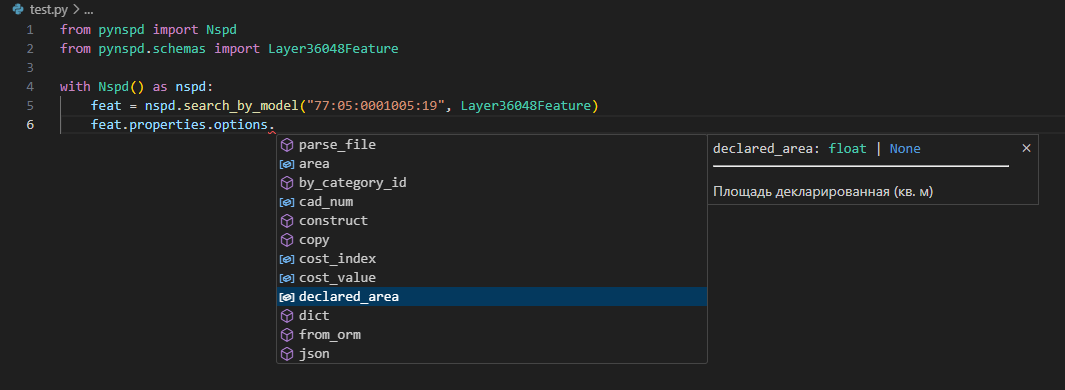
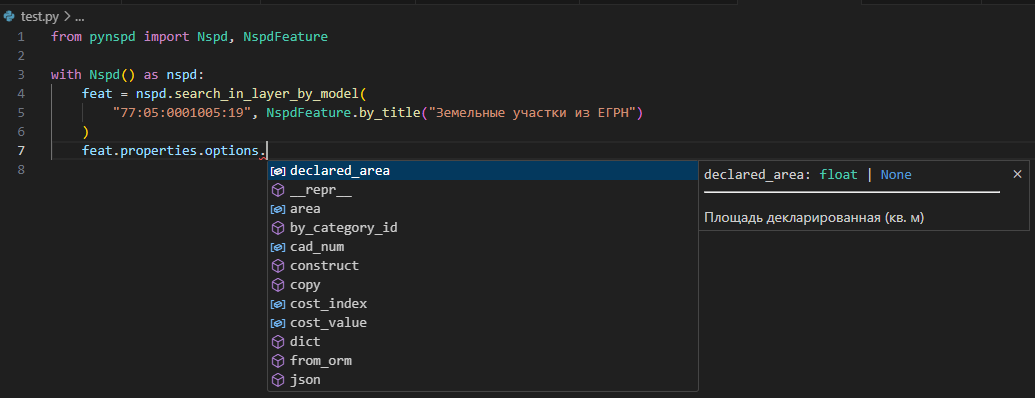
chore: update docs

Changed region(s): [[0.0618, 0.3385, 1.0, 0.9846], [0.0, 0.0, 0.6184, 0.3385], [0.0, 0.1231, 0.0309, 0.1846]]

diff --git a/src/pynspd/schemas/feature.py b/src/pynspd/schemas/feature.py
@@ -11,7 +11,7 @@ Feat = TypeVar("Feat", bound="BaseFeature")
 
 
 class NspdFeature(BaseFeature[Geometry, NspdProperties[OptionProperties]]):
-    """Базовая фича, приходящая из API, не привязанная к слою"""
+    """Базовый класс для валидации GeoJSON-объекта из НСПД"""
 
     @classmethod
     def _iter_layer_defs(cls) -> Generator[Type[BaseFeature], None, None]:
@@ -42,14 +42,14 @@ class NspdFeature(BaseFeature[Geometry, NspdProperties[OptionProperties]]):
         """Приведение объекта к одному из типов перечня определений слоев
 
         Args:
-            layer_def (Optional[Type[Feat]], optional):
-                Класс определение слоя. Если не указан, то попытается определить по свойствам. Defaults to None.
+            layer_def:
+                Класс определение слоя. Если не указан, то попытается определить по свойствам. По умолчанию None.
 
         Raises:
             UnknownLayer: Не удалось определить тип слоя по свойствам
 
         Returns:
-            Feat: объект, приведенный к типу его слоя
+            Объект, приведенный к типу его слоя
         """
         if layer_def is None:
             assert self.properties is not None

diff --git a/src/pynspd/schemas/properties.py b/src/pynspd/schemas/properties.py
@@ -12,9 +12,17 @@ T = TypeVar("T", bound="OptionProperties")
 
 
 class NspdProperties(CamelModel, Generic[OptProps]):
+    """Базовый класс для валидации поля `property` в GeoJSON-объекте из НСПД"""
+
     category: int
+    """ID категории слоя"""
+
     category_name: str
+    """Имя категории слоя"""
+
     options: OptProps
+    """Свойства объекта"""
+
     system_info: Optional["SystemInfoProperties"] = None
     cadastral_districts_code: Optional[int] = None
     descr: Optional[str] = None
@@ -38,6 +46,8 @@ class NspdProperties(CamelModel, Generic[OptProps]):
 
 
 class OptionProperties(BaseModel):
+    """Базовый класс для валидации поля `property.options` в GeoJSON-объекте из НСПД"""
+
     model_config = ConfigDict(
         extra="allow",
         use_attribute_docstrings=True,

diff --git a/docs/advanced/typing.md b/docs/advanced/typing.md
@@ -1,1 +1,139 @@
-*WIP*
+Если вы не знакомы с таким понятием в python, как *"type annotation"*, 
+то рекомендуем ознакомиться с основами [в этом уроке из документации FastAPI](https://fastapi.tiangolo.com/it/python-types/#add-types).
+
+В этой же статье мы покроем те области, которые связаны непосредственно с `pynspd`.
+
+!!! info "TL;DR"
+    Если вы пишете современное приложение с type hints на Python, 
+    пользуетесь инструментами вроде [mypy](https://github.com/python/mypy),
+    хотите быть уверенным в приходящих от НСПД данных - 
+    используете методы `nspd.<method_name>_by_model` или `NspdFeature.cast()`. 
+
+## Приведение к типу в методах
+
+Напомним, что разные методы поиска в `pynspd` имеют две вариации - базовая и с использованием модели слоя (с суффиксом `_by_model`)
+
+```python
+from pynspd import Nspd, NspdFeature
+
+nspd = Nspd()
+
+# Базовый вариант
+feat_plain = nspd.search_in_layer(
+    "77:09:0004002:1", 
+    36048
+)
+
+# По модели слоя
+feats_typed = nspd.search_in_layer_by_model(
+    "77:09:0004002:1", 
+    NspdFeature.by_title("Земельные участки из ЕГРН"),
+)
+```
+
+Анализатор IDE сообщает нам о разных типах:
+
+![Plain feat example](../assets/feat_plain.png)
+
+![Typed feat example](../assets/feat_typed.png)
+
+В рантайме типы так же отличаются:
+
+```python
+print(type(feat_plain))
+#> <class 'pynspd.schemas.feature.NspdFeature'>
+print(type(feats_typed))
+#> <class 'pynspd.schemas._autogen_features.Layer36048Feature'>
+```
+
+`NspdFeature` - это базовая модель слоя НСПД. Она ничего не знает о его свойствах - только обрабатывает сырые данные в Pydantic-модель.
+
+`Layer36048Feature` - модель слоя (в данном случае "Земельные участки"), в котором есть все метаданные.
+
+Ниже приведен краткое сравнение разницы в работе:
+
+|                                                       | `NspdFeature`    | `LayerXXXFeature` |
+| ----------------------------------------------------- | :--------------: | :---------------: |
+| Доступны все свойства объекта                         | :material-check: | :material-check:  |
+| Доступна работа с геометрией `.to_shape()`            | :material-check: | :material-check:  |
+| Валидирование данных, приходящих с НСПД               | :material-close: | :material-check:  |
+| Подсказки IDE по доступным полям                      | :material-close: | :material-check:  |
+| `.model_dump_human_readable()` дает результат         | :material-close: | :material-check:  |
+
+
+## Приведение к типу постфактум
+
+Иногда у нас нет возможности получить типизированный объект. 
+
+Например, метод `nspd.search_in_theme(...)` всегда возвращает `NspdFeature`.
+
+При может быть потребность в преимуществах модели слоя - например, для экспорта свойств в человекочитаемый словарь, `.model_dump_human_readable()`.
+
+Для этих целей мы можем воспользоваться методом `NspdFeature.cast(...)` и:
+
+- передать в качестве аргумента модель слоя (*статическое приведение*); 
+- ничего не передавать и определить модель автоматически (*динамическое приведение*). 
+
+```python
+raw_feat: NspdFeature = nspd.search_in_theme("77:09:0004002:1")
+
+# Статическое приведение
+props_typed_cast = raw_feat.cast(
+    NspdFeature.by_title("Земельные участки из ЕГРН")
+    ).properties
+
+# Динамическое приведение
+props_plain_cast = raw_feat.cast().properties
+```
+
+Динамически приведенный тип, как подсказывает нам название, не может быть определен статическим анализатором,
+поэтому считается базовым классом `NspdProperties[OptionProperties]`:
+
+![Plain cast example](../assets/cast_plain.png)
+
+??? info "Что за `NspdProperties[OptionProperties]`?"
+    GeoJSON объекта из НСПД имеет вид:
+    ```json
+    {
+        "type": "Feature",
+        "geometry": {...},
+        "properties": {
+            "category": 1, 
+            "category_name": "test",
+            ...другие свойства слоя...
+            "options": {
+                "cad_num": "0:0:0:0",
+                ...другие свойства объекта...
+            } 
+        }
+    }
+    ```
+    Соответственно, `"properties"` - это `NspdProperties`. 
+
+    Т.к. свойства объектов в нем могут быть различными, 
+    `NspdProperties` - это *generic*-класс, у которого в квадратных скобках указан тип для `"options"`.
+
+    `OptionProperties` - это базовый класс для `"options"`, в нем нет определений для конкретных типов. 
+    Классы для `"options"` с конкретным типом имеют вид `OptionsXXX`
+
+В то время как после статического приведение IDE знает, что это свойства слоя "Земельных участков":
+
+![Typed cast example](../assets/cast_typed.png)
+
+??? info "Что за `Option36368`?"
+    Категория слоя "Земельные участки" на НСПД имеет *id=36368*. Отсюда и имя класса свойств этой категории - `Option36368`
+
+Но если мы сравним типы свойств этих двух объектов, то они окажутся одинаковыми:
+
+```python
+assert type(props_plain_cast) == type(props_typed_cast)
+print(props_plain_cast)
+#> <class 'pynspd.schemas.properties.NspdProperties[Options36368]'>
+```
+
+Таким образом главное отличие *динамического* и *статического* приведение - **отсутствие подсказки статического анализа**.
+
+!!! tip
+    Мы можем приводить тип как всего объекта: `feat.cast().properties.options`, как указано в примерах выше.
+
+    А можем только его свойств: `feat.properties.cast().options` - результат будет идентичен

diff --git a/docs/userguide.md b/docs/userguide.md
@@ -22,8 +22,6 @@ nspd.close()
 
 О том, почему важно закрывать сессию, вы можете прочитать в документации [httpx](https://www.python-httpx.org/advanced/clients/#usage) - замечательной библиотеке для http-запросов, которую `pynspd` использует под капотом.
 
-Подробнее о более тонкой настройки клиента `pynspd` вы можете прочитать в статье ["Настройка клиента"](advanced/client.md).
-
 ## Поиск объектов
 
 ### По поисковому запросу
@@ -75,7 +73,6 @@ feat = nspd.search_in_layer_by_model(
 
 ```python
 from shapely import Point
-from pynspd.schemas import Layer36048Feature
 
 # по id слоя
 feats = nspd.search_at_point(Point(37.546440653, 55.787139958), 36048)
@@ -83,7 +80,7 @@ feats = nspd.search_at_point(Point(37.546440653, 55.787139958), 36048)
 # по модели слоя
 feats = nspd.search_at_point_by_model(    
     Point(37.546440653, 55.787139958), 
-    Layer36048Feature
+    NspdFeature.by_title("Земельные участки из ЕГРН"),
 )
 print(feats[0].properties.options.cad_num)
 #> "77:09:0005008:11446"
@@ -104,7 +101,10 @@ contour = wkt.loads(
 feats = nspd.search_in_contour(contour, 36368)
 
 # по модели слоя
-feats = nspd.search_in_contour_by_model(contour, Layer36048Feature)
+feats = nspd.search_in_contour_by_model(
+    contour,
+    NspdFeature.by_title("Земельные участки из ЕГРН"),
+)
 cns = [i.properties.options.cad_num for i in feats]
 print(cns)
 #> ["77:01:0001011:8", "77:01:0001011:14", "77:01:0001011:16"]

diff --git a/docs/advanced/sync_vs_async.md b/docs/advanced/sync_vs_async.md
@@ -15,10 +15,10 @@
 Все методы, которые доступны в синхронном клиенте `Nspd`, также доступны и в асинхронном `AsyncNspd`. 
 Однако, нужно не забывать про две важные вещи:
 
-- всем вызовам асинхронных методов должно предшествовать ключевое слово `await`
-- все вызовы асихронных методов должны осуществляться в `async` функциях
+- всем вызовам асинхронных методов должно предшествовать ключевое слово `await`;
+- все вызовы асихронных методов должны осуществляться в `async` функциях.
 
-??? tip "Пример простого скрипта получения GeoJSON с НСПД, используя асинхронный API"
+!!! example "Пример простого скрипта получения GeoJSON с НСПД, используя асинхронный API"
     ```python
     # Стандартная библиотека для работы с `async` функциями 
     import asyncio

diff --git a/docs/advanced/caching.md b/docs/advanced/caching.md
@@ -21,7 +21,7 @@ client = Nspd(cache_storage=storage)
     Для некоторых типов хранилищ (например, Redis или асихронный SQLite), 
     потребуется установить дополнительные библиотеки, о чем **Hishel** сообщит при попытки использования
 
-??? info "О использовании `hishel.Controller` в `pynspd`"
+!!! info "О использовании `hishel.Controller` в `pynspd`"
     В **Hishel** есть три ключевых понятия: *Storage*, *Serializers*, *Controller*. 
     И если первые два всегда зависят от предпочтения конечного пользователя, то *Controller* чаще всего специфичен для каждого конкретного сайта.
     Поэтому в `pynspd` уже заложен *Controller*, специфичный для НСПД.

diff --git a/docs/api/feature.md b/docs/api/feature.md
@@ -1,2 +1,4 @@
 ::: pynspd.NspdFeature
     members: by_category_id by_title cast
+    options:
+        show_overloads: false

diff --git a/docs/api/options.md b/docs/api/options.md
@@ -1,0 +1,1 @@
+::: pynspd.schemas.properties.OptionProperties

diff --git a/docs/api/properties.md b/docs/api/properties.md
@@ -1,0 +1,1 @@
+::: pynspd.schemas.properties.NspdProperties
